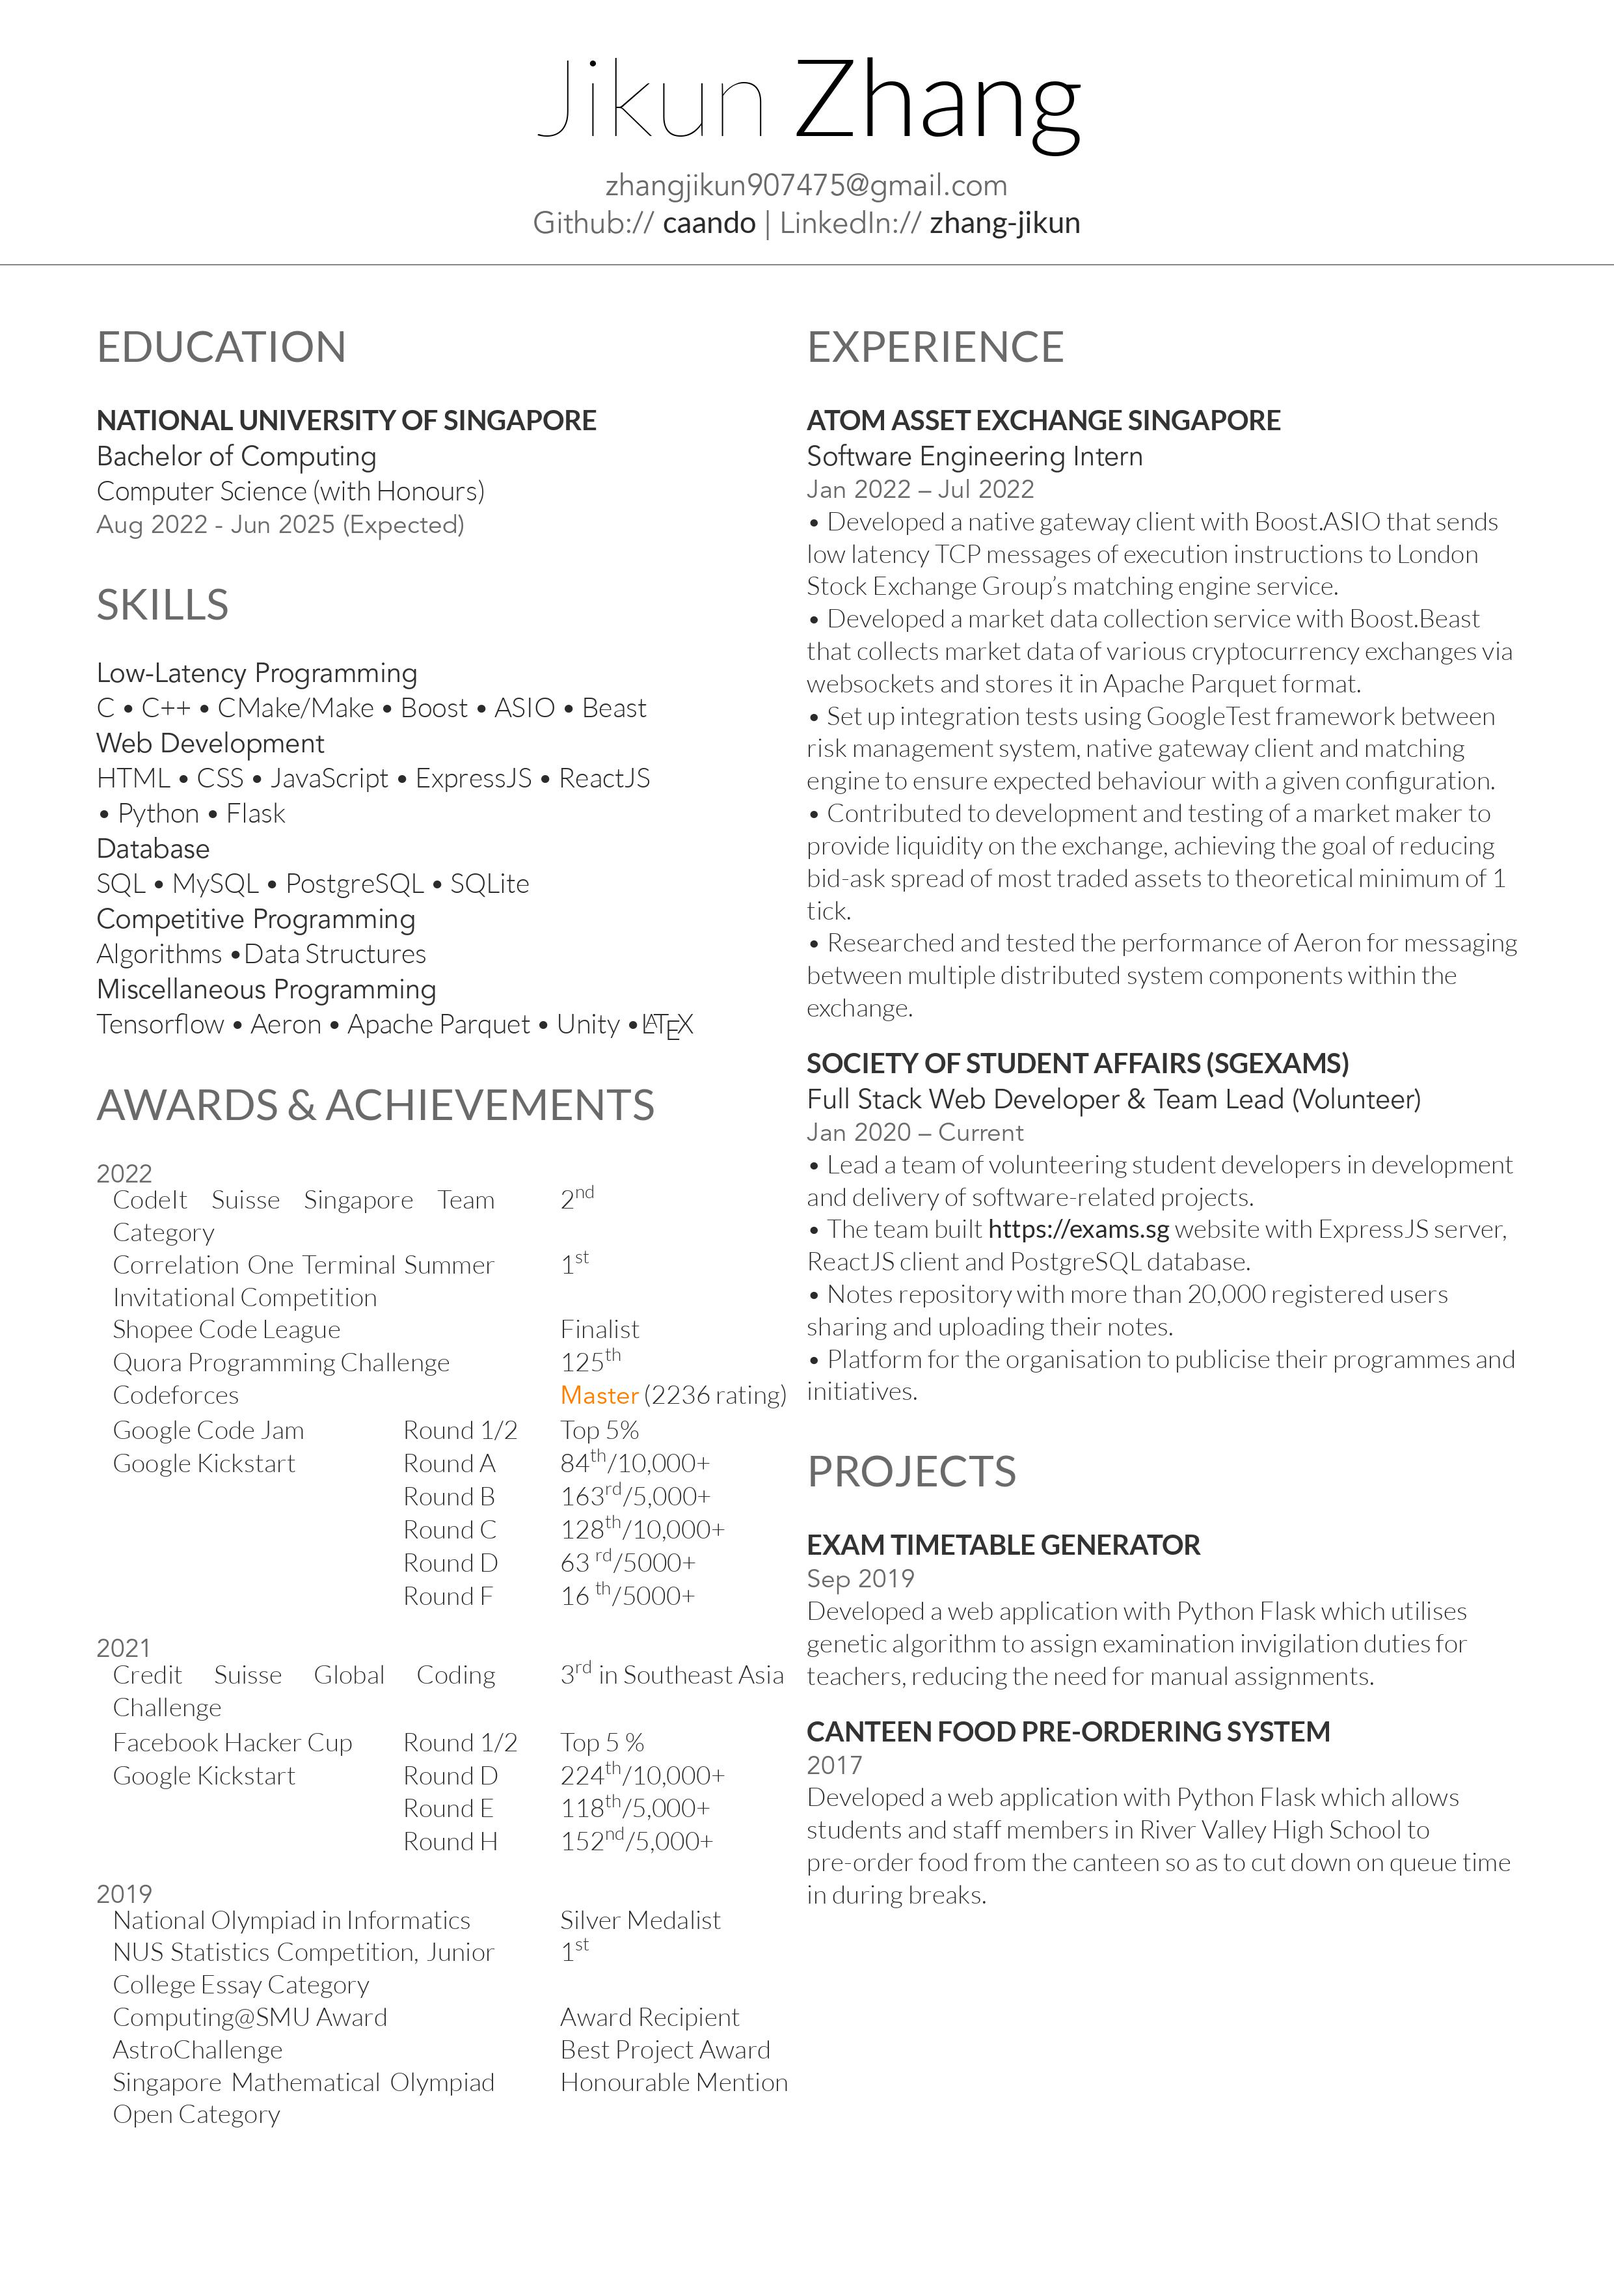
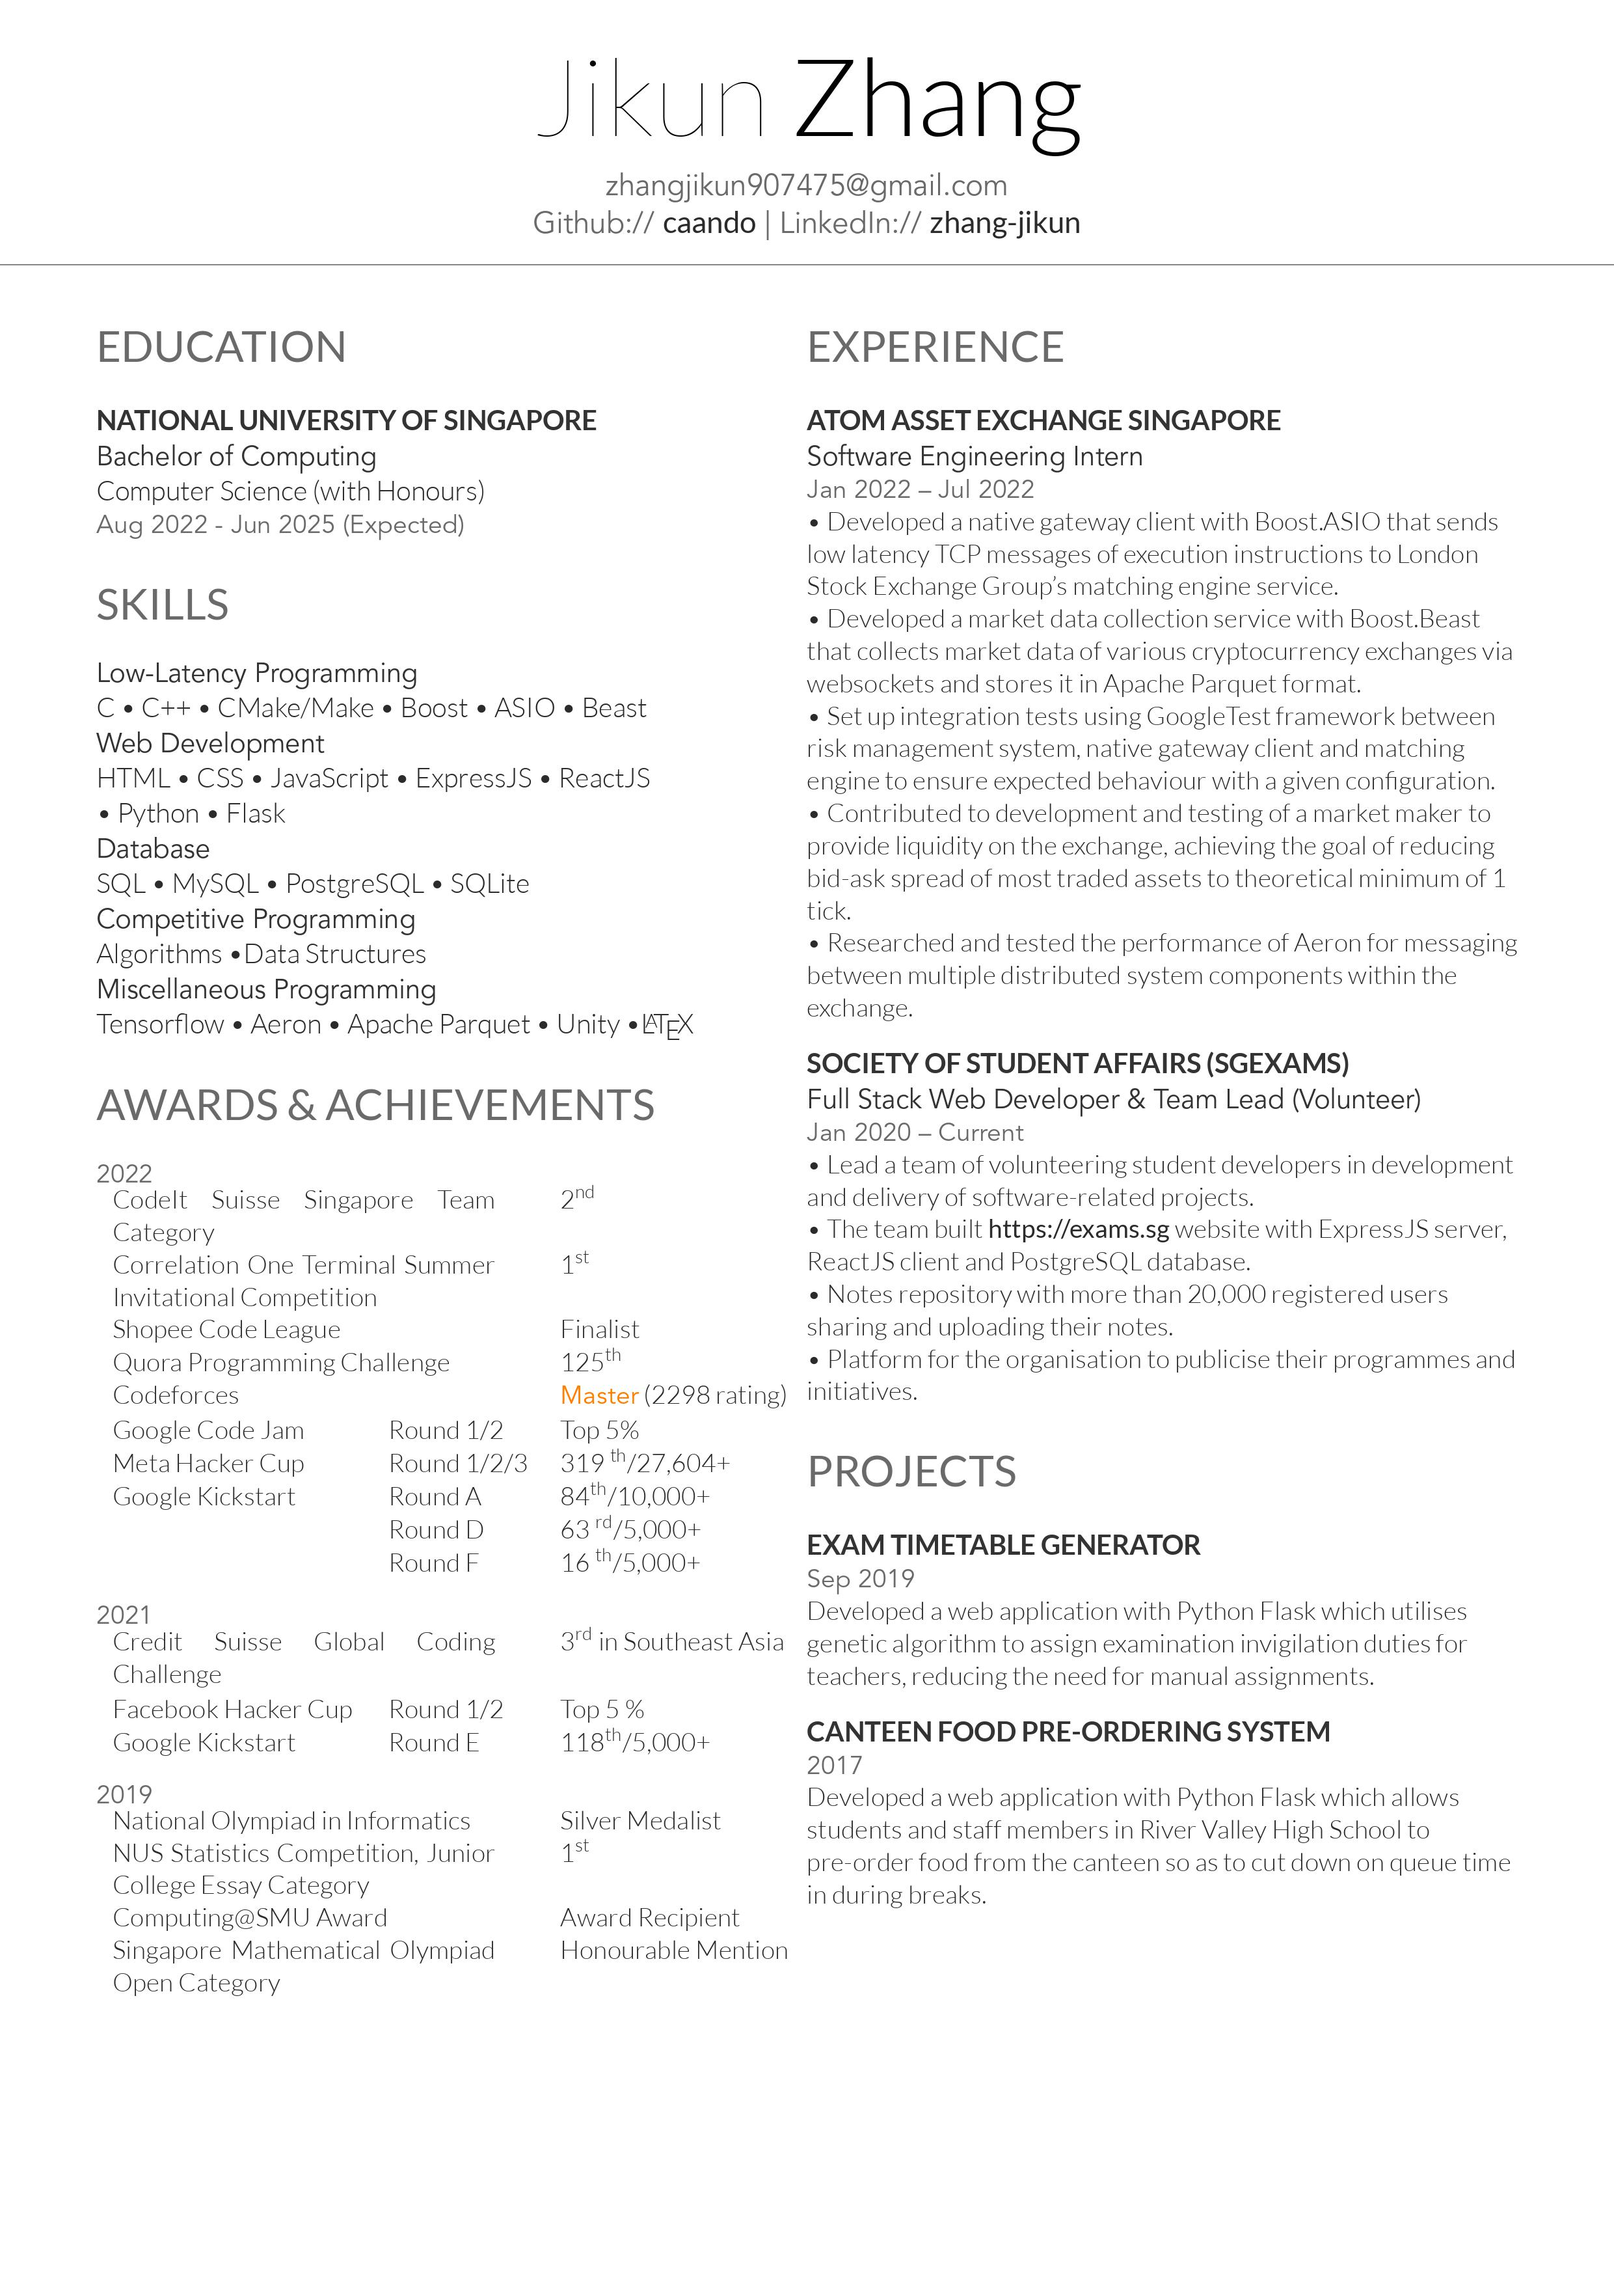
added meta hacker cup + removed excess kickstart + updated cf

diff --git a/resume.tex b/resume.tex
@@ -93,15 +93,14 @@ LinkedIn:// \href{https://www.linkedin.com/in/zhang-jikun}{\bf zhang-jikun}
         {Correlation One Terminal Summer Invitational Competition} & & 1\textsuperscript{st} \\
         Shopee Code League & & Finalist \\
         Quora Programming Challenge & & 125\textsuperscript{th} \\
-        Codeforces & & \href{https://codeforces.com/profile/caan_do}{\color{orange}\fontspec[Path = fonts/avenir/]{Avenir-Book}Master} (2236 rating) \\
+        Codeforces & & \href{https://codeforces.com/profile/caan_do}{\color{orange}\fontspec[Path = fonts/avenir/]{Avenir-Book}Master} (2298 rating) \\
     \end{tabular}
-    \begin{tabular}{p{0.37\linewidth} p{0.18\linewidth} l}
+    \begin{tabular}{p{0.35\linewidth} p{0.20\linewidth} l}
         Google Code Jam & Round 1/2 & Top 5\% \\
+        Meta Hacker Cup & Round 1/2/3 & 319 \textsuperscript{th}/27,604+ \\
         Google Kickstart & Round A & 84\textsuperscript{th}/10,000+ \\
-        & Round B & 163\textsuperscript{rd}/5,000+ \\
-        & Round C & 128\textsuperscript{th}/10,000+ \\
-        & Round D & 63 \textsuperscript{rd}/5000+ \\
-        & Round F & 16 \textsuperscript{th}/5000+ \\
+        & Round D & 63 \textsuperscript{rd}/5,000+ \\
+        & Round F & 16 \textsuperscript{th}/5,000+ \\
     \end{tabular}
     
     \sectionspace % Some whitespace after the section
@@ -111,11 +110,9 @@ LinkedIn:// \href{https://www.linkedin.com/in/zhang-jikun}{\bf zhang-jikun}
     \begin{tabular}{p{0.55\linewidth} p{0\linewidth} l}
         {Credit Suisse Global Coding \linebreak Challenge} & & 3\textsuperscript{rd} in Southeast Asia \\
     \end{tabular}
-    \begin{tabular}{p{0.37\linewidth} p{0.18\linewidth} l}
+    \begin{tabular}{p{0.35\linewidth} p{0.20\linewidth} l}
         Facebook Hacker Cup & Round 1/2 & Top 5 \% \\
-        Google Kickstart & Round D & 224\textsuperscript{th}/10,000+ \\
-        & Round E & 118\textsuperscript{th}/5,000+\\
-        & Round H & 152\textsuperscript{nd}/5,000+ \\
+        Google Kickstart & Round E & 118\textsuperscript{th}/5,000+ \\
     \end{tabular}
     
     \sectionspace % Some whitespace after the section
@@ -127,7 +124,6 @@ LinkedIn:// \href{https://www.linkedin.com/in/zhang-jikun}{\bf zhang-jikun}
         National Olympiad in Informatics & & Silver Medalist \\
         NUS Statistics Competition, Junior College Essay Category & & 1\textsuperscript{st} \\
         Computing@SMU Award & & Award Recipient\\
-        AstroChallenge & & Best Project Award\\
         Singapore Mathematical Olympiad Open Category & & Honourable Mention\\
     \end{tabular}
     
